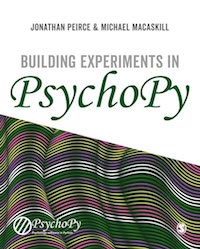
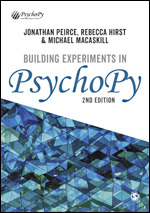
update book

diff --git a/source/teaching/index.rst b/source/teaching/index.rst
@@ -29,14 +29,13 @@ Materials for Builder
     :alt: PsychoPy Builder book cover
     :target: https://uk.sagepub.com/en-gb/eur/building-experiments-in-psychopy/book253480
 
-The **most comprehensive guide** is the book `Building Experiments in PsychoPy`_ by Peirce and MacAskill.
+The **most comprehensive guide** is the book `Building Experiments in PsychoPy <https://us.sagepub.com/en-us/nam/building-experiments-in-psychopy/book273700>`_ by Peirce, Hirst and MacAskill.
   The book is suitable for a wide range of needs and skill sets, with 3 sections for:
 
 - The Beginner (suitable for undergraduate teaching)
 - The Professional (more detail for creating more precise studies)
 - The Specialist (with info about specialist needs such as studies in fMRI, EEG, ...)
 
-**Note that a new release of this book is now due January 2022!**
 
 - `Susan Benear <https://sites.temple.edu/cnltu/susan-benear/>`_ has created some fantastic `content on using PsychoPy builder <https://tu-coding-outreach-group.github.io/cog_summer_workshops_2021/psychopy/index.html>`_  delivered as part of the Coding Outreach Group Summer Workshop. All materials are also share on `github <https://github.com/TU-Coding-Outreach-Group/cog_summer_workshops_2021/tree/main/psychopy>`_
 
